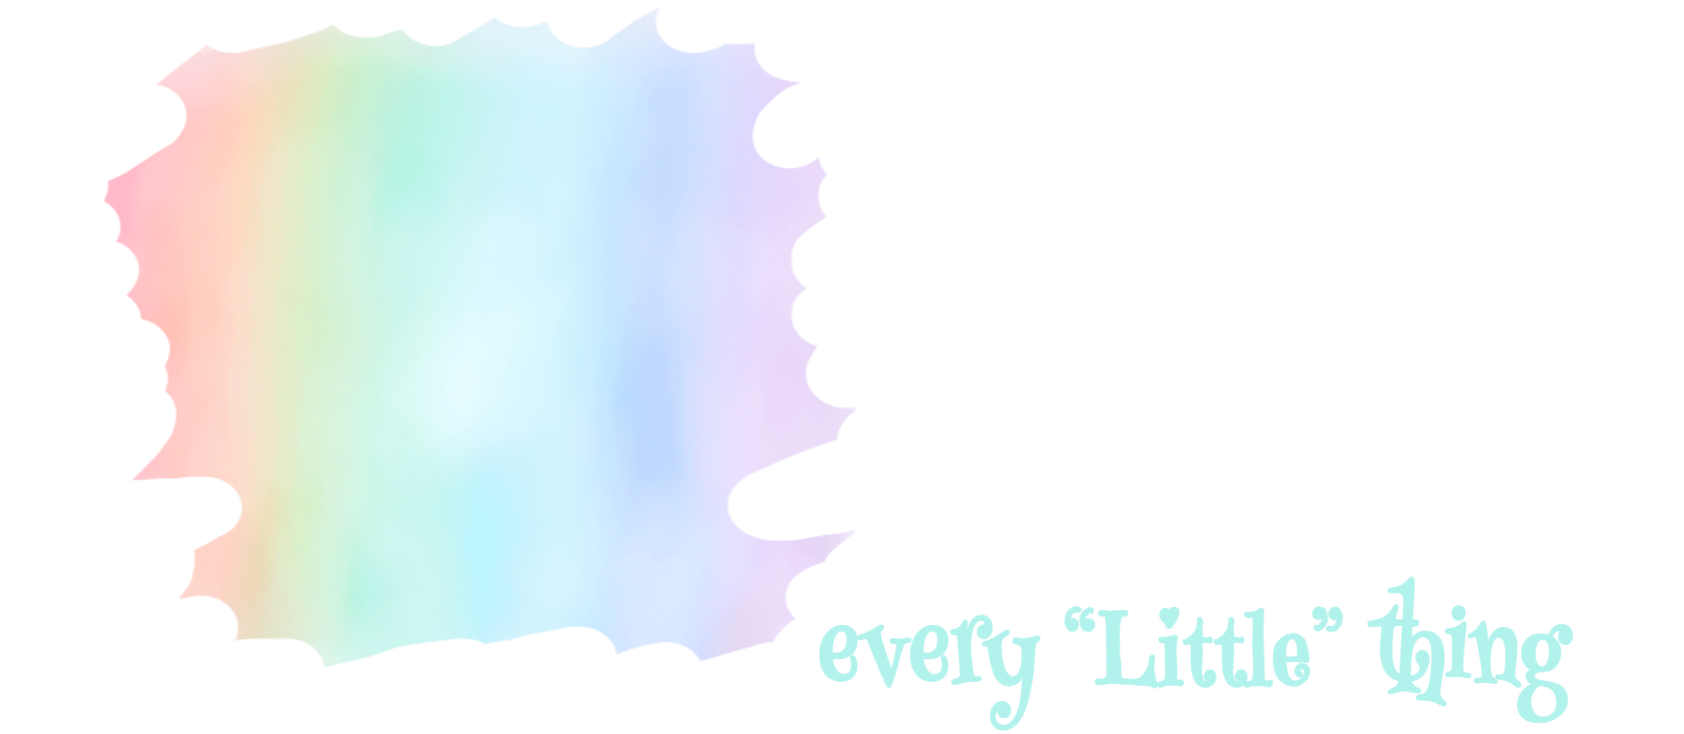
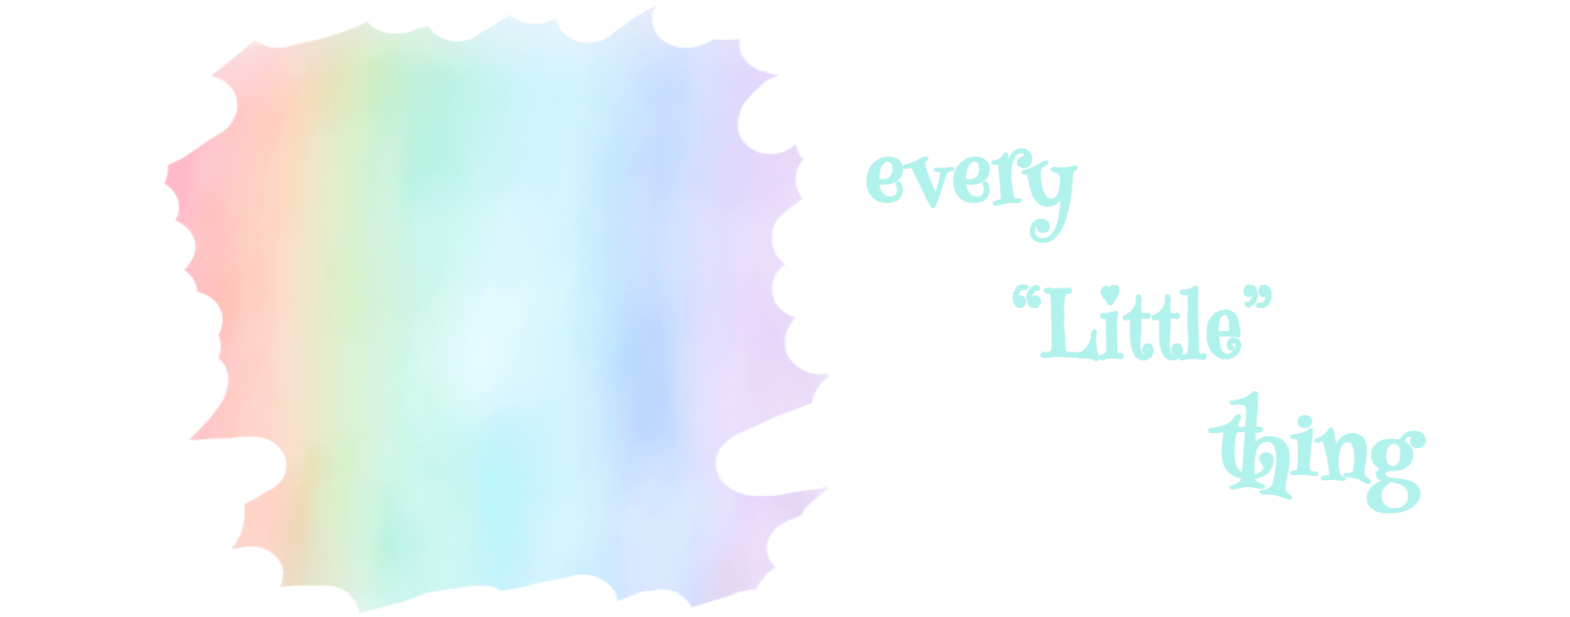
changed header and footer

diff --git a/_includes/site-header.html b/_includes/site-header.html
@@ -1,30 +1,30 @@
 {% include logo.html %}
 
-<header class="grid bg-image tall-90 padded">
+<header class="grid bg-image">
 
-    <nav class="col-12 hide-sm right">
+  <nav class="col-12 hide-sm right">
+    <a href="/blog"> Blog </a>
+    <a href="/blog-archive"> Archive </a>
 
-      <a href="/blog"> Blog </a>
-      <a href="/blog-archive"> Archive </a>
-
-      <div class="dropdown">
-        <span class="dropdown-title"> Categories </span>
-        <div class="dropdown-content">
-
-          <a href="/food"> Food </a>
-          <a href="/bali"> Bali </a>
-          <a href="/self-care"> Self Care </a>
-          <a href="/travel"> Travel </a>
-
-        </div> 
-      </div>
-        <a href="#"> Portfolio </a>
-        <a href="#"> Contact </a>
+    <div class="dropdown">
+      <span class="dropdown-title"> Categories </span>
+      <div class="dropdown-content">
+        <a href="/food"> Food </a>
+        <a href="/bali"> Bali </a>
+        <a href="/self-care"> Self Care </a>
+        <a href="/travel"> Travel </a>
+      </div> 
       
-    </nav> 
-    <div class="col-7 right show-sm">
-      <a class="hamburger-button"> &#9776; </a>
     </div>
+      <a href="#"> Portfolio </a>
+      <a href="#"> Contact </a>   
+  </nav> 
+
+  <img class="col-12" src="/images/banner.png">
+  
+  <div class="col-7 right show-sm">
+    <a class="hamburger-button"> &#9776; </a>
+  </div>
 </header>
   
   <div class="mobile-menu"> 

diff --git a/style.css b/style.css
@@ -17,7 +17,6 @@ img { max-width: 100%; height: auto; }
 
 section { position: relative; }
 
-
 /* ---------- Negative Space Utility Classes  ------------------ */ 
 
 .capped-width-wide      { max-width: 1600px; margin: auto; }
@@ -105,7 +104,6 @@ section { position: relative; }
 
 .bg-image {
     background-color: var(--light); /* Set a fall-back color while images are loading */ 
-    background-image: url('images/banner.png');
     background-size: cover;
     background-position: center; 
     background-repeat: no-repeat;
@@ -241,7 +239,9 @@ p a:hover {
 - .button-inverted, .button-subtle, .button-lg  */
 
 
-/* ------------ Header & Hamburger Menu -------------- */
+/* ------------ Header/Footer & Hamburger Menu -------------- */
+nav { background-color: white; }
+
 nav a {
     padding: 0.25rem 0.5rem;
     display: inline-block;
@@ -253,13 +253,23 @@ nav a:hover {
 
 .logo {
   text-decoration: none;
-  background-image: url('images/jc.png');
   background-position: center;
   background-repeat: no-repeat;
   display: block;
-  min-height: 37vh;
-  margin: 0 20%;
-} 
+  margin: 0 30%;
+}
+
+footer {
+  background-image: url('images/footer.jpg')
+  background-position: bottom;
+  background-repeat: no-repeat;
+}
+
+.footer-logo {
+  font-family: 'Libre Barcode 128 Text', cursive;
+  font-size: 3rem;
+  text-decoration: none;
+}
 
 
 /* Dropdown styles */

diff --git a/_includes/social-share.html b/_includes/social-share.html
@@ -5,14 +5,14 @@
     <h4 class="margin-b-05"> share the love</h4>
 
     <nav>
-        <a href="https://twitter.com/intent/tweet?text={{ page.title }}&url={{ site.url }}{{ page.url }}&via={{ site.data.site-settings.social.twitter_username }}&related={{ site.data.site-settings.social.twitter_username }}" rel="nofollow" target="_blank" title="Share on Twitter">
-            <i class="fab fa-twitter"></i>
-        </a>
         <a href="https://facebook.com/sharer.php?u={{ site.url }}{{ page.url }}" rel="nofollow" target="_blank" title="Share on Facebook">
             <i class="fab fa-facebook-f"></i>
         </a>
         <a href="http://pinterest.com/pin/create/link/?url={{page.url}}&description={{page.title}}" rel="nofollow" target="_blank" title="Share on Pinterest">
-        <i class="fab fa-pinterest-p"></i>
+            <i class="fab fa-pinterest-p"></i>
+        </a>
+        <a href="https://twitter.com/intent/tweet?text={{ page.title }}&url={{ site.url }}{{ page.url }}&via={{ site.data.site-settings.social.twitter_username }}&related={{ site.data.site-settings.social.twitter_username }}" rel="nofollow" target="_blank" title="Share on Twitter">
+            <i class="fab fa-twitter"></i>
         </a>
     </nav>
 

diff --git a/_includes/head.html b/_includes/head.html
@@ -42,7 +42,7 @@
 <!-- Google Font  -->
 <link rel="preconnect" href="https://fonts.googleapis.com">
 <link rel="preconnect" href="https://fonts.gstatic.com" crossorigin>
-<link href="https://fonts.googleapis.com/css2?family=Martel:wght@200;300;400;700&family=Mulish:ital,wght@0,200;0,300;0,400;0,500;0,600;0,700;0,800;0,900;1,200;1,300;1,400;1,500;1,600;1,700;1,800;1,900&display=swap" rel="stylesheet"> 
+<link href="https://fonts.googleapis.com/css2?family=Martel:wght@200;300;400;700&family=Mulish:ital,wght@0,200;0,300;0,400;0,500;0,600;0,700;0,800;0,900;1,200;1,300;1,400;1,500;1,600;1,700;1,800;1,900&family=Libre+Barcode+128+Text&display=swap" rel="stylesheet"> 
 
 <!-- Custom Stylesheet  -->
 <link rel="stylesheet" type="text/css" href="/editor.css" />

diff --git a/_includes/site-footer.html b/_includes/site-footer.html
@@ -1,12 +1,16 @@
-<footer class="padded center bg-medium">
-    <div class="padded-1">
-      <a href="#" class="logo"> LOGO </a>
-    </div> 
-    <nav class="padded-1">
-       <a href="#"> Link One </a>
+<footer class="padded-b-0 grid center bg-medium text-light">
+    <div class="padded col-6_sm-12">
+      <a href="#" class="footer-logo"> Website by Jessica Christie </a>
+    </div>
+    <nav class="padded col-6_sm-12 right">
+      <h3> Find me on Social Media! </h3>
+      <a href="#"> Link One </a>
       <a href="#"> Link Two </a>
       <a href="#"> Link Three </a>
       <a href="#"> Link Four </a>
     </nav> 
+    <div class="col-12 padded-t center">
+      <p class="subtle"> Copyright 2021 </p>
+    </div>
   </footer>
   

diff --git a/_includes/logo.html b/_includes/logo.html
@@ -1,5 +1,6 @@
 <div class="grid">
   <div class="col-12">  
-    <a href="/" class="logo"> </a>
+    <a href="/" class="logo">
+      <img src="/images/jc.png"> </a>
   </div>
 </div>
